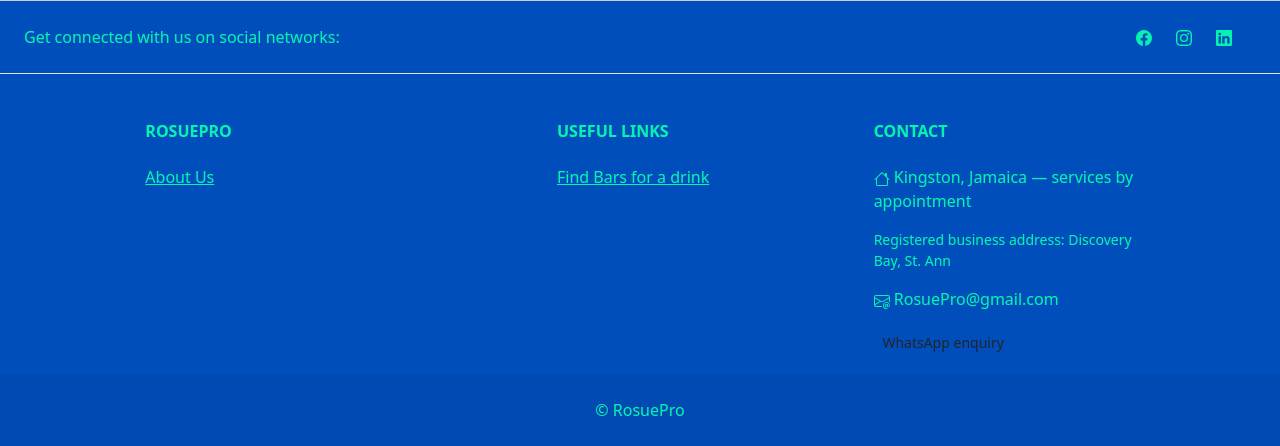
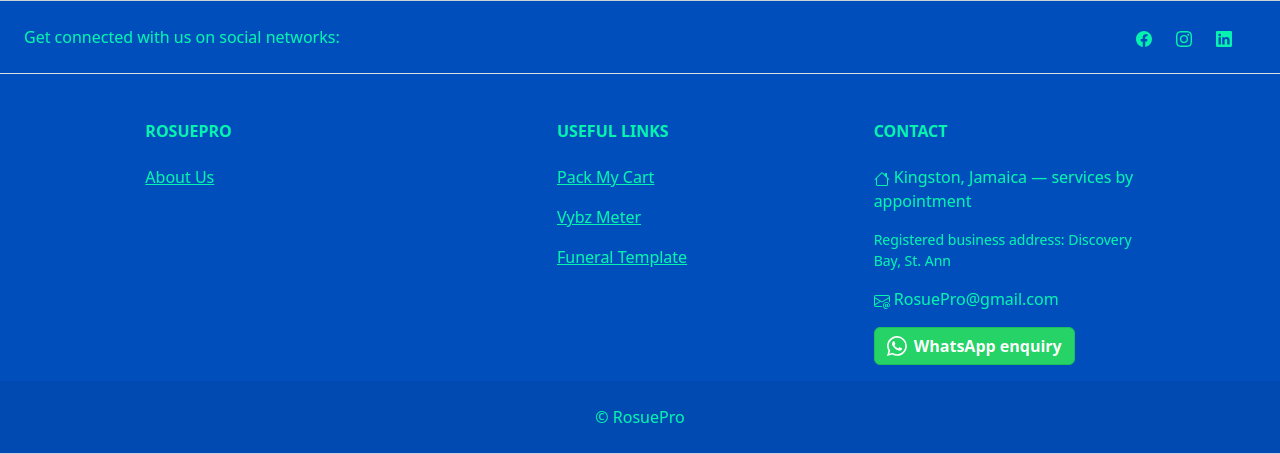
Footer: replace useful links with portfolio demos
Swap Yahsonice bar map for Pack My Cart, Vybz Meter, and Funeral Template
project links (new tab, noopener noreferrer).

diff --git a/src/components/Footer.js b/src/components/Footer.js
@@ -61,7 +61,13 @@ export default function Footer() {
                     </h6>
 
                     <p>
-                        <a href="https://yahsonice.com/bar-map" className="text-reset" target="_blank" rel="noreferrer">Find Bars for a drink</a>
+                        <a href="https://pack-my-cart.web.app" className="text-reset" target="_blank" rel="noopener noreferrer">Pack My Cart</a>
+                    </p>
+                    <p>
+                        <a href="https://vybz-meter.web.app" className="text-reset" target="_blank" rel="noopener noreferrer">Vybz Meter</a>
+                    </p>
+                    <p>
+                        <a href="https://funeral-template.web.app" className="text-reset" target="_blank" rel="noopener noreferrer">Funeral Template</a>
                     </p>
                     </div>
 
